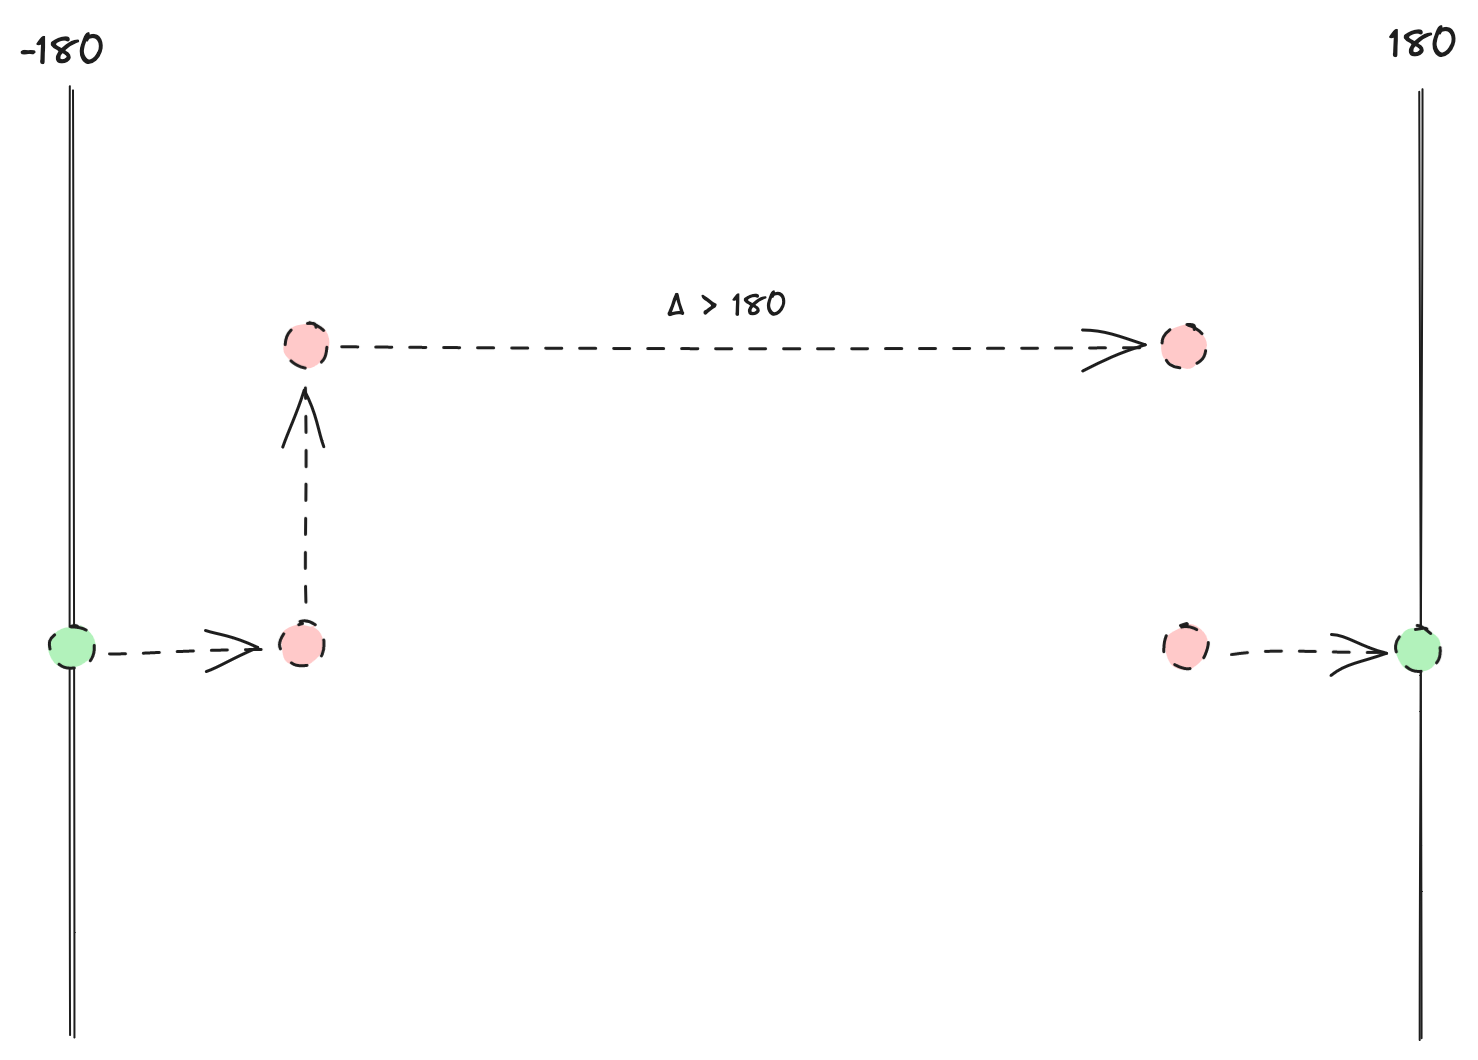
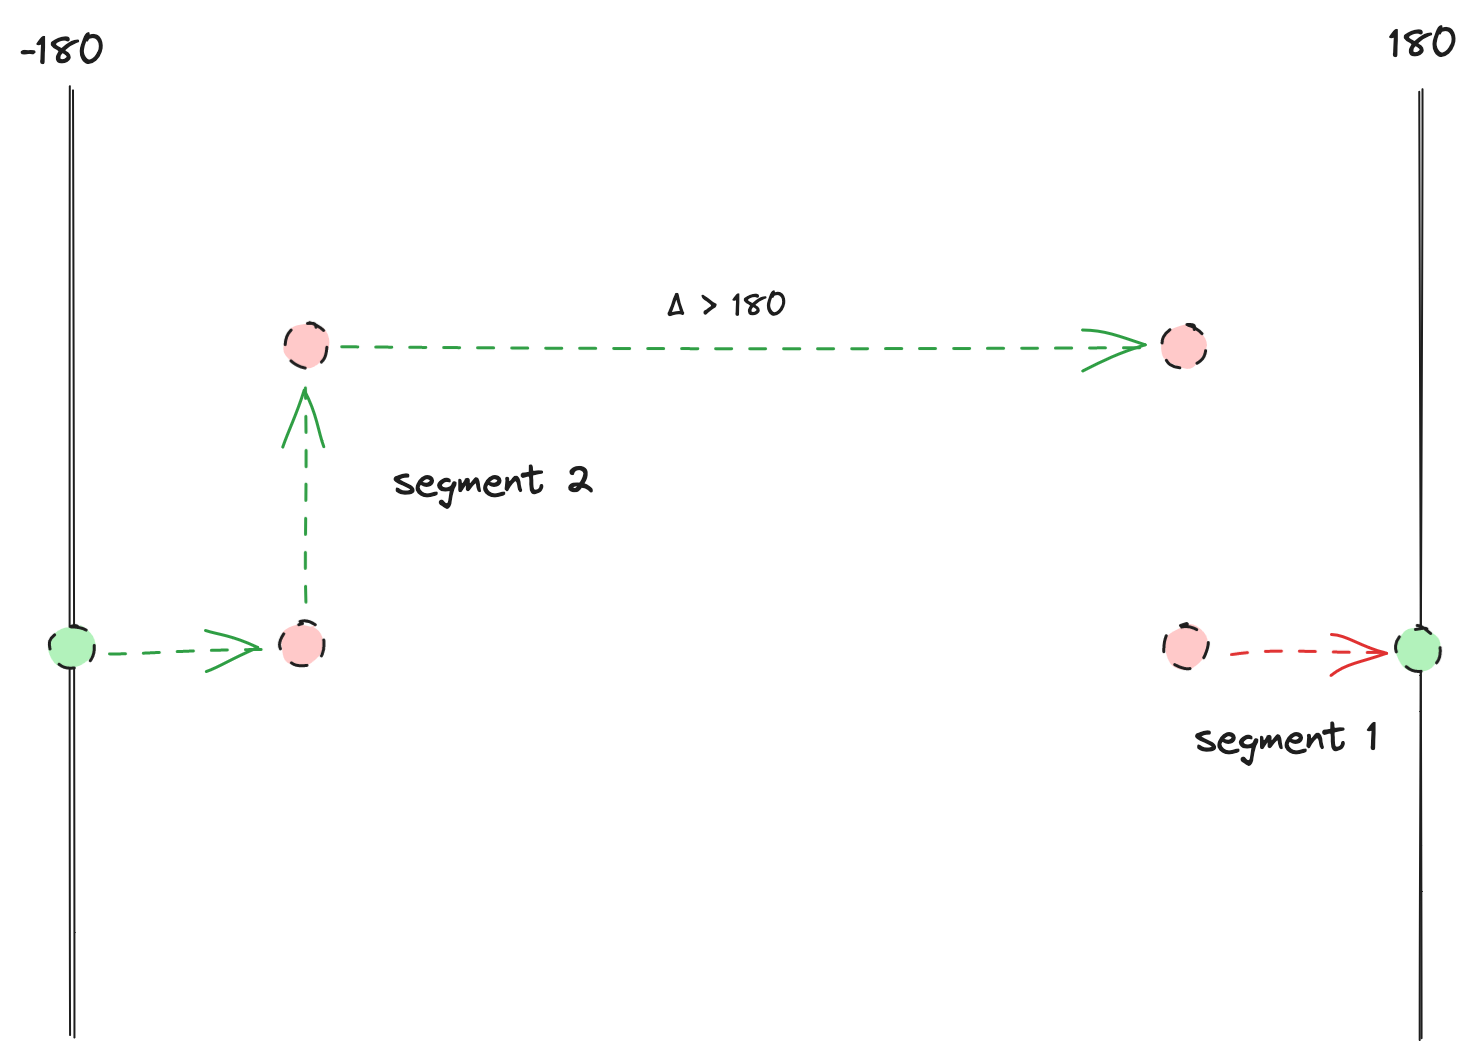
fixup! requested changes

diff --git a/docs/the-algorithm.rst b/docs/the-algorithm.rst
@@ -8,7 +8,7 @@ Background
 
 Let's start with a simple GeoJSON geometry that doesn't come anywhere near the antimeridian.
 For the sake of example, let's say it runs from 40° longitude west to 40° east, and from 20° latitude south to 20° north.
-It's lower left point is at ``-40, -20``, and its upper right point is at ``40, 20``.
+Its lower left point is at ``-40, -20``, and its upper right point is at ``40, 20``.
 
 .. figure:: img/box.png
     :scale: 30%
@@ -16,8 +16,14 @@ It's lower left point is at ``-40, -20``, and its upper right point is at ``40, 
 
     A simple box.
 
-Now let's consider the same geometry, but shifted east (or west) 180 degrees.
+Now let's consider the same geometry, but shifted east 180 degrees.
 Its lower-left point is ``140, -20``, and its upper-right point is at ``220, 20``.
+Here's its representation in GeoJSON:
+
+.. literalinclude:: examples/crossing.json
+
+And visualized:
+
 
 .. figure:: img/crossing.png
     :scale: 30%
@@ -26,17 +32,20 @@ Its lower-left point is ``140, -20``, and its upper-right point is at ``220, 20`
     A box that crosses the antimeridian.
 
 So far, good enough.
-However, the bounds of WGS84, the coordinate system used by GeoJSON, go from -180° to 180° longitude.
-This means that the upper-right coordinate of our antimeridian-crossing box are often "wrapped" to ``-140, 20``.
-This leads to this confusing visual representation.
+However, the `bounds of WGS84 <https://epsg.io/4326>`_, the coordinate system used by GeoJSON, go from -180° to 180° longitude.
+This means that the upper-right coordinate of our antimeridian-crossing box should be "wrapped" to ``-140, 20``:
 
-.. figure:: img/split.png
-    :scale: 30%
-    :align: center
+.. literalinclude:: examples/wrapped.json
+    :diff: examples/crossing.json
 
-    A box that crosses the antimeridian, wrapped.
+Let's consider the four points of our "wrapped" box, and the order in which they're connected:
 
-Let's consider the four points of our box, and the order in which they're connected.
+.. code-block:: text
+
+        1              2              3            4            1
+
+    [140, -20] -> [-140, -20] -> [-140, 20] -> [140, 20] -> [140, 20]
+
 Exterior rings in GeoJSON should be wound counter-clockwise, but you can see that our antimeridian-crossing box appears to be wound clockwise.
 
 .. figure:: img/winding.png
@@ -45,21 +54,25 @@ Exterior rings in GeoJSON should be wound counter-clockwise, but you can see tha
 
     The four points in our box, with their connections.
 
-This leads to a confusion situation, where the "correct" interpretation of our antimeridian-crossing box would be globe-covering shape with a "hole" over the equator and the prime meridian.
+This leads to a confusing situation — because it's invalid GeoJSON!
+You should not have a standalone clockwise ring.
+When rendering this polygon, some systems automatically correct the winding order, and would display this shape centered on the prime meridian.
+Another interpretation is that the shape is a hole, and the shell is the entire rest of the globe.
 This is very rarely what you're actually trying to represent.
 
 .. figure:: img/winding-repercussions.png
     :scale: 30%
     :align: center
 
-    If we interpret our antimeridian-crossing box literally, it describes a very strange geometry.
+    How should we interpret this invalid GeoJSON?
 
-Here's where our algorithm comes in.
+Our algorithm can take this invalid GeoJSON as input and produce valid GeoJSON as output.
 
 Segmentation
 ~~~~~~~~~~~~
 
-Given our antimeridian-crossing box as our input, we walk through the points until we find a longitude jump of more than 180° degrees.
+To correct the invalid GeoJSON, we break our polygon into **segments**.
+To create segments, we start at the first point of the geometry, and walk through the points until we find a longitude jump of more than 180° degrees.
 
 .. figure:: img/delta-gt-180.png
     :scale: 30%
@@ -68,6 +81,7 @@ Given our antimeridian-crossing box as our input, we walk through the points unt
     A longitude jump greater than 180°.
 
 When we find such a jump, we split the polygon into segments by inserting two points, one on each antimeridian.
+The first point ends the first segment, and the second point starts the second segment.
 
 .. figure:: img/segment.png
     :scale: 30%
@@ -83,22 +97,53 @@ We then continue walking through the points, applying the same procedure when ot
 
     Another jump of more than 180° longitude.
 
-When we finish walking the points, we join the last segment back to the first.
+We then finish walking the points.
 
 .. figure:: img/finish-segmentation.png
     :scale: 30%
     :align: center
 
-    Finishing the segmentation step.
+    Finishing the segmentation.
 
-Finally, segment end are joined to segment starts by searching up or down the antimeridian to create multiple polygons.
+Because the last point of a GeoJSON Polygon's coordinates is the same as the first point, we join the first and the last segments.
+
+.. figure:: img/joining-segments.png
+    :scale: 30%
+    :align: center
+
+    Joining the first and last segments.
+
+We now use our segments to build new polygons.
+Let's consider the segment on the 180° antimeridian.
+We take that segment's end point and search up the antimeridian for the first segment start point, joining those points to create a closed shape:
+
+.. figure:: img/creating-a-polygon.png
+    :scale: 30%
+    :align: center
+
+    Searching up the antimeridian to create a polygon from a segment.
+
+We use the same approach for the -180° antimeridian, but search down (towards the south pole) instead of up.
+
+After the segments are joined, the individual Polygon are combined into a MultiPolygon.
 This conforms to the `GeoJSON specification <https://datatracker.ietf.org/doc/html/rfc7946#section-3.1.9>`_, which expects antimeridian-crossing polygons to be split into multipolygons at  the antimeridian.
 
 .. figure:: img/polygons.png
     :scale: 30%
     :align: center
 
-    The output polygons.
+    The output MutliPolygon.
+
+Complicated segmentation
+````````````````````````
+
+Note that this segmentation approach works even in more complicated cases, e.g. if there's a "hole" (like a donut over the antimeridian):
+
+.. figure:: img/donut.png
+    :scale: 30%
+    :align: center
+
+    Creating a polygon for a "donut" over the antimeridian.
 
 The poles
 ~~~~~~~~~
@@ -114,7 +159,7 @@ Here's a oval geometry that covers the north pole, as visualized from "above" th
 
 That geometry would be represented as a set of points, all with positive latitudes and with longitudes covering more-or-less the entire -180° to 180° extent of our coordinate system.
 Because the edge of our geometry does not touch the pole, there's no point that has a 90° latitude.
-This means that a classic cartesian visualization of the geometry never touches the north pole, since the maximum latitude of the geometry is less than 90°.
+This means that the geometry never touches the north pole in a cartesian visualization, since the maximum latitude of the geometry is less than 90°.
 
 .. figure:: img/pole-as-points.png
     :scale: 30%
@@ -122,11 +167,46 @@ This means that a classic cartesian visualization of the geometry never touches 
 
     The same polygon as points, visualized in a cartesian plot.
 
-Our algorithm includes a step after segmentation that "extends" segments over the pole, when appropriate, by adding two new points.
-This produces a valid GeoJSON geometry that encloses the pole.
+We use the same segmentation algorithm as described above, which in this case produces only a single segment.
+
+.. figure:: img/pole-segment.png
+    :scale: 30%
+    :align: center
+
+    The single segment of our polar geometry.
+
+When we try to close our polygon by searching "up" the 180° antimeridian from our end point, there's no start point to find.
+So we create two new points, one on each antimeridian, and then continue the search down the other side.
+Here's that drawn out, step-by-step.
+
+First, we search up the antimeridian and find no points.
+
+.. figure:: img/pole-search-up.png
+    :scale: 30%
+    :align: center
+
+    No points above the segment end.
+
+We add two points, one at the top of each antimeridian, and add them to the segment.
+
+.. figure:: img/pole-add-points.png
+    :scale: 30%
+    :align: center
+
+    Add two points and continue the segment.
+
+Finally, we search down the 180° antimeridian until we find our segment start point.
 
 .. figure:: img/pole-enclosed.png
     :scale: 30%
     :align: center
 
-    After segmentation, our algorithm adds points to enclose the pole.
+    Add two points and continue the segment.
+
+This produces a single valid GeoJSON polygon that encloses the pole in a cartesian visualization.
+
+.. figure:: img/pole-enclosed-polygon.png
+    :scale: 30%
+    :align: center
+
+    The pole-enclosing polygon.
